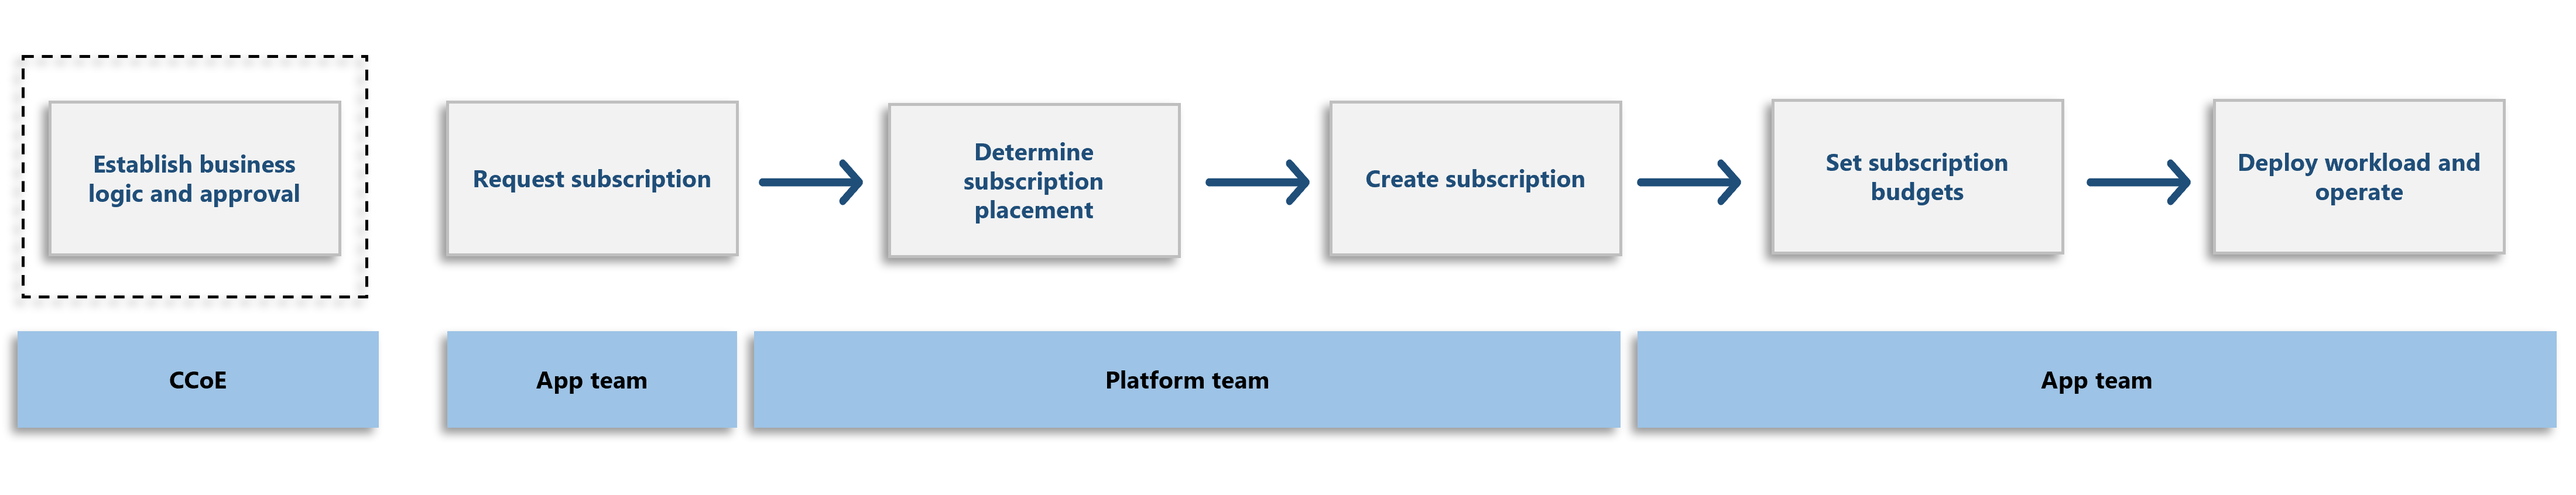
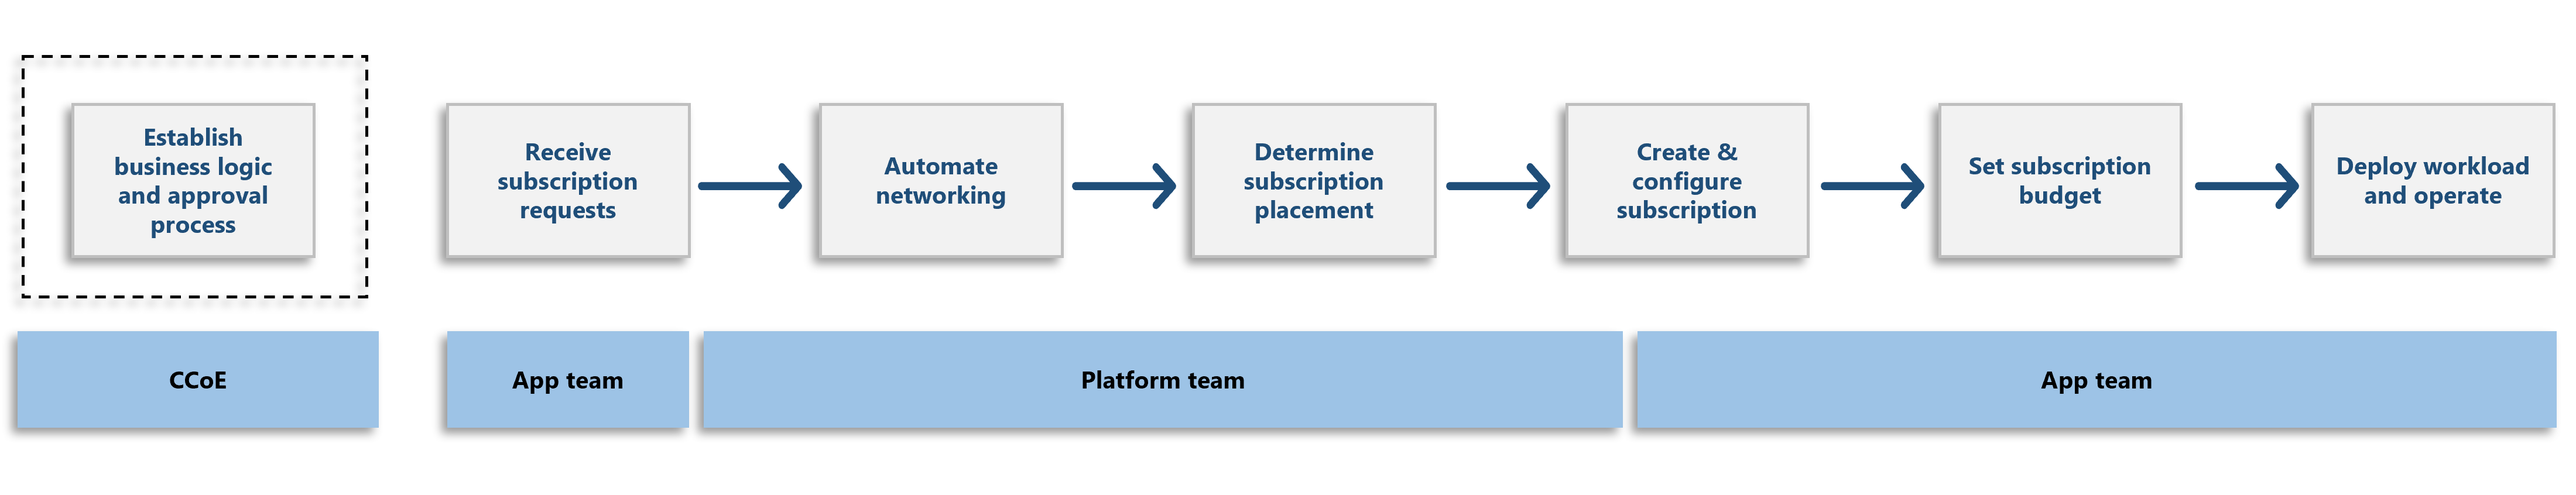
updated image to match headings

diff --git a/docs/ready/landing-zone/design-area/subscription-vending.md b/docs/ready/landing-zone/design-area/subscription-vending.md
@@ -119,7 +119,7 @@ Without a commercial agreement, you can still automate a large portion of the su
 
 **Hand off to application team.** After the platform team creates the subscription, they should hand off the subscription to the application team to set their own budgets and deploy & operate their workloads.
 
-### Set budget
+### Set subscription budget
 
 The platform and workload teams share responsibility for the financial health of the subscription. The application team creates budgets to control spending. Delegate budget creation to the application landing zone team and associated teams to empower them to control their costs. They're useful for auditing spending against current and forecast usage. Budgets aren't hard limits, so you should create budget alerts to notify the subscription owners if the workload is about to exceed the budget. For shared services, such as API Management, consider using [Azure Cost Allocation Rules (Preview)](/azure/cost-management-billing/costs/allocate-costs) to redistribute costs between consuming subscriptions.
 
